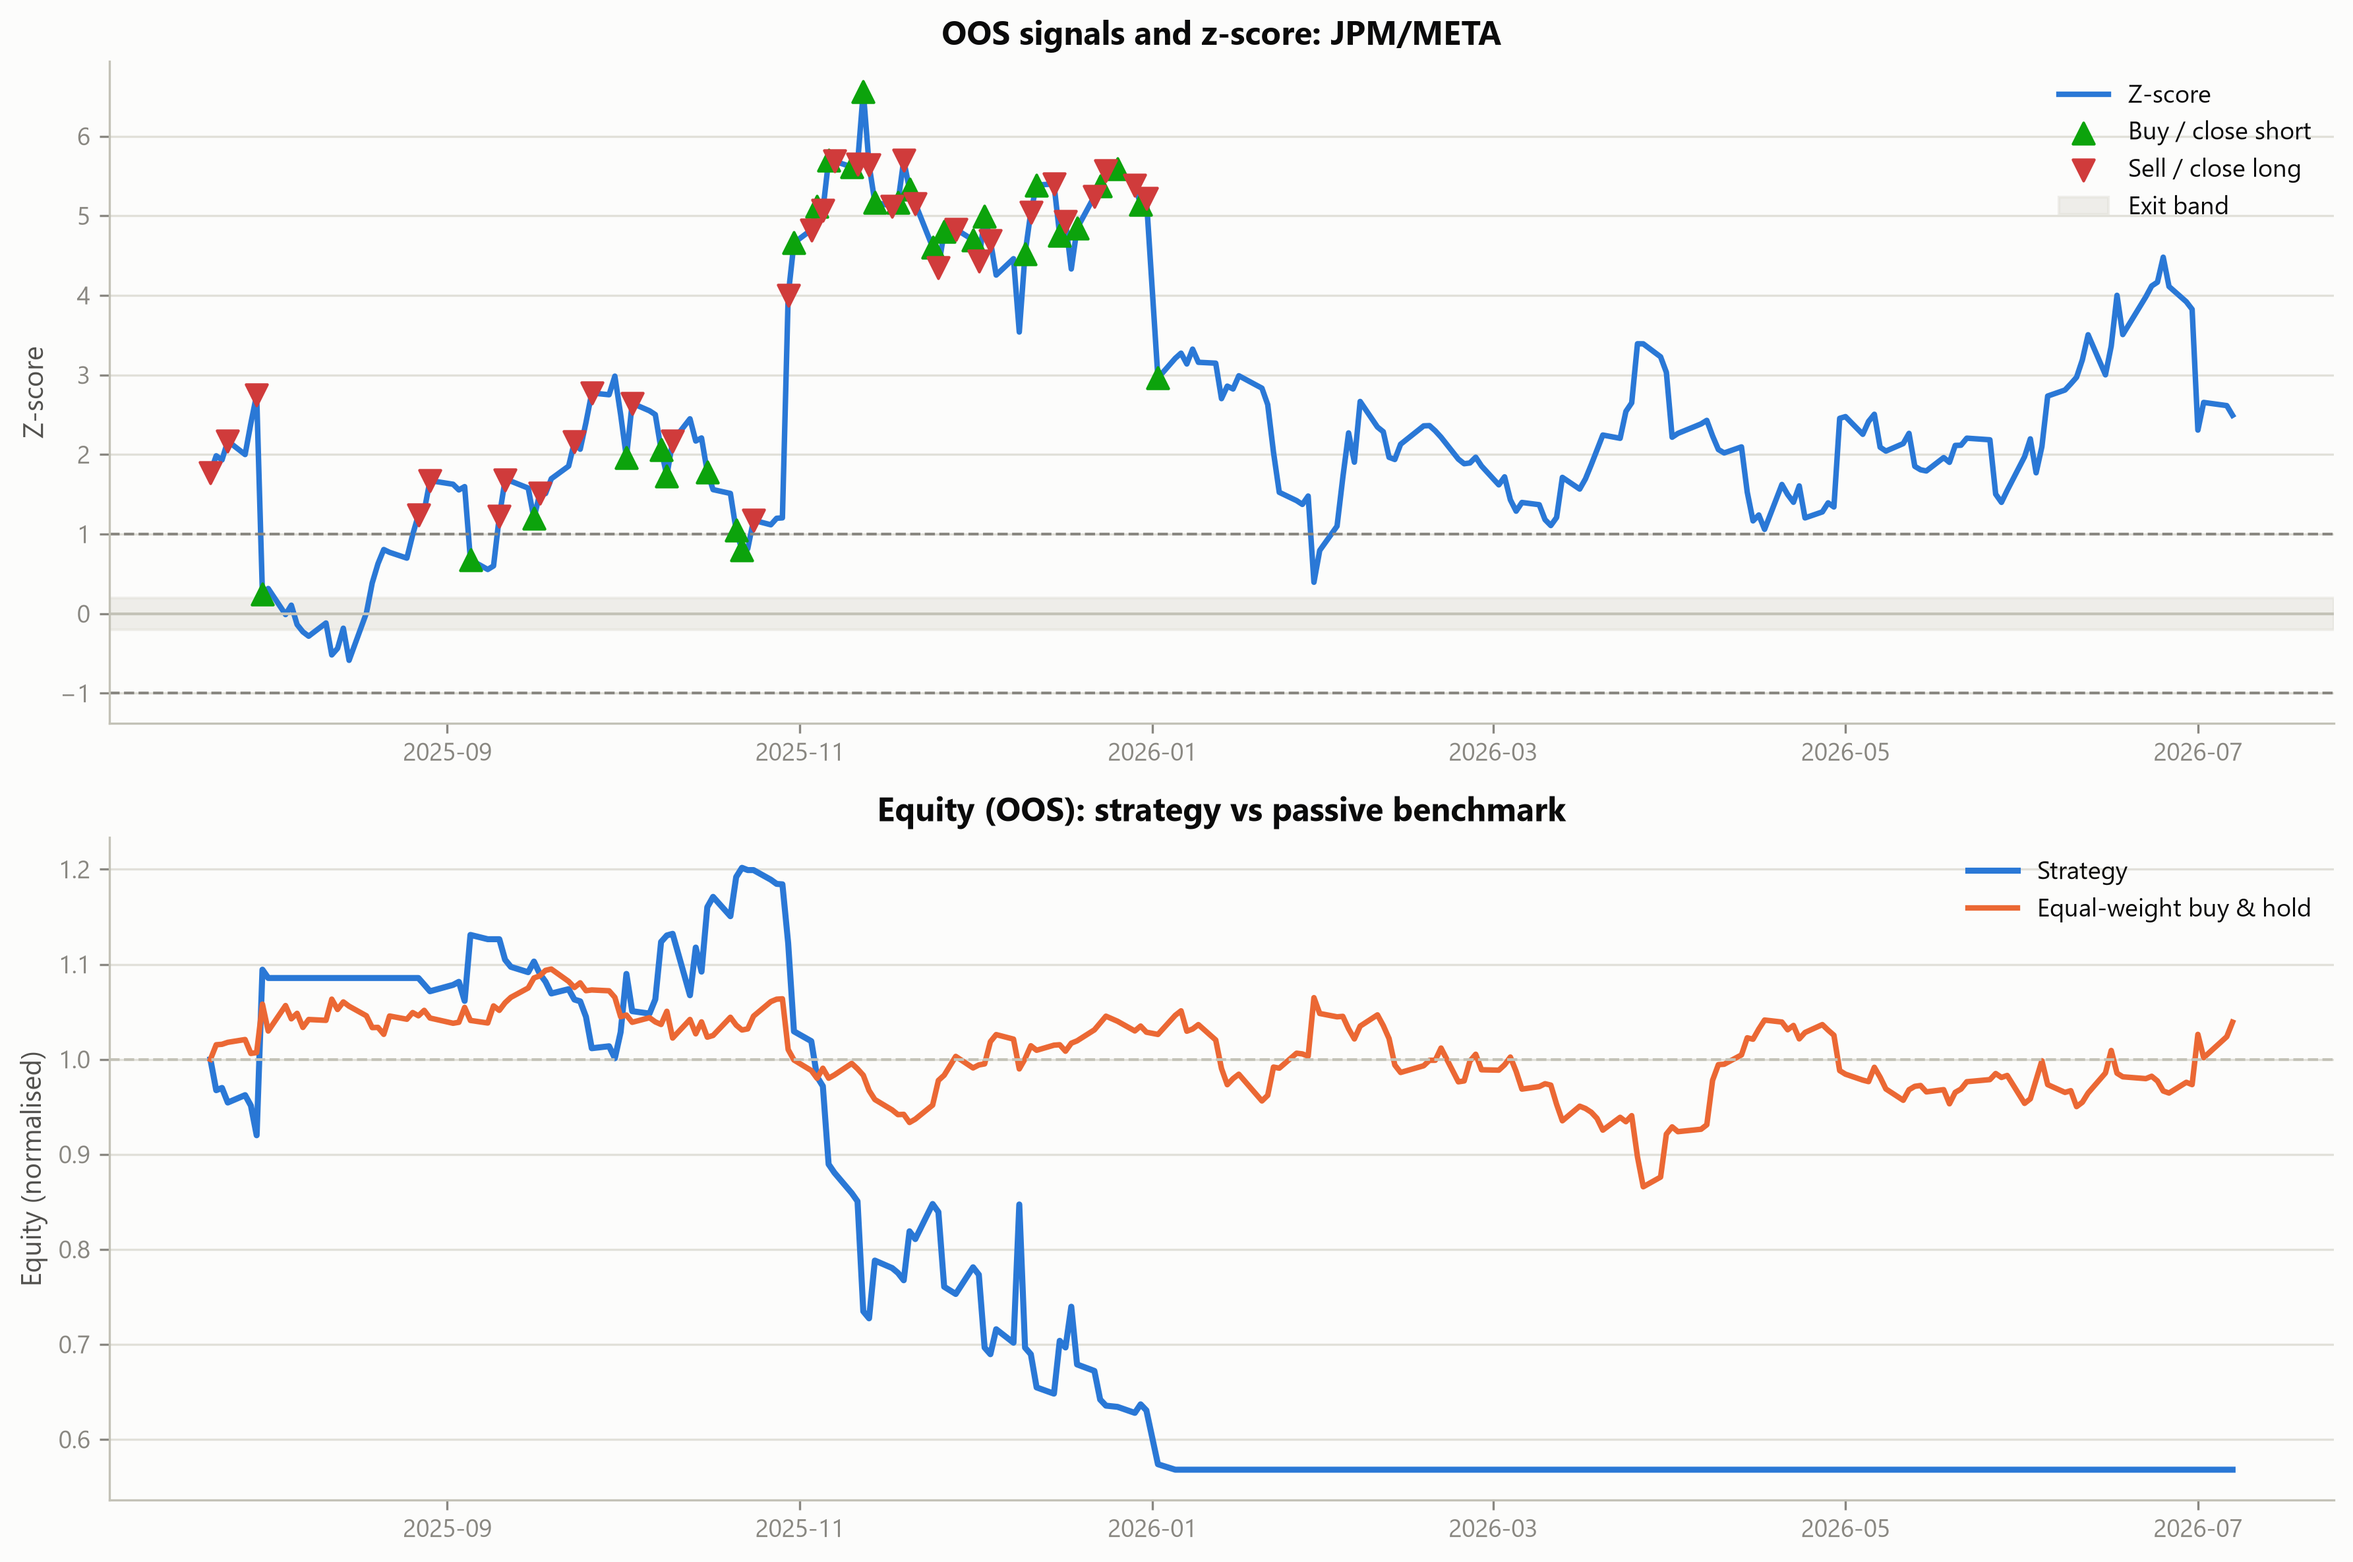
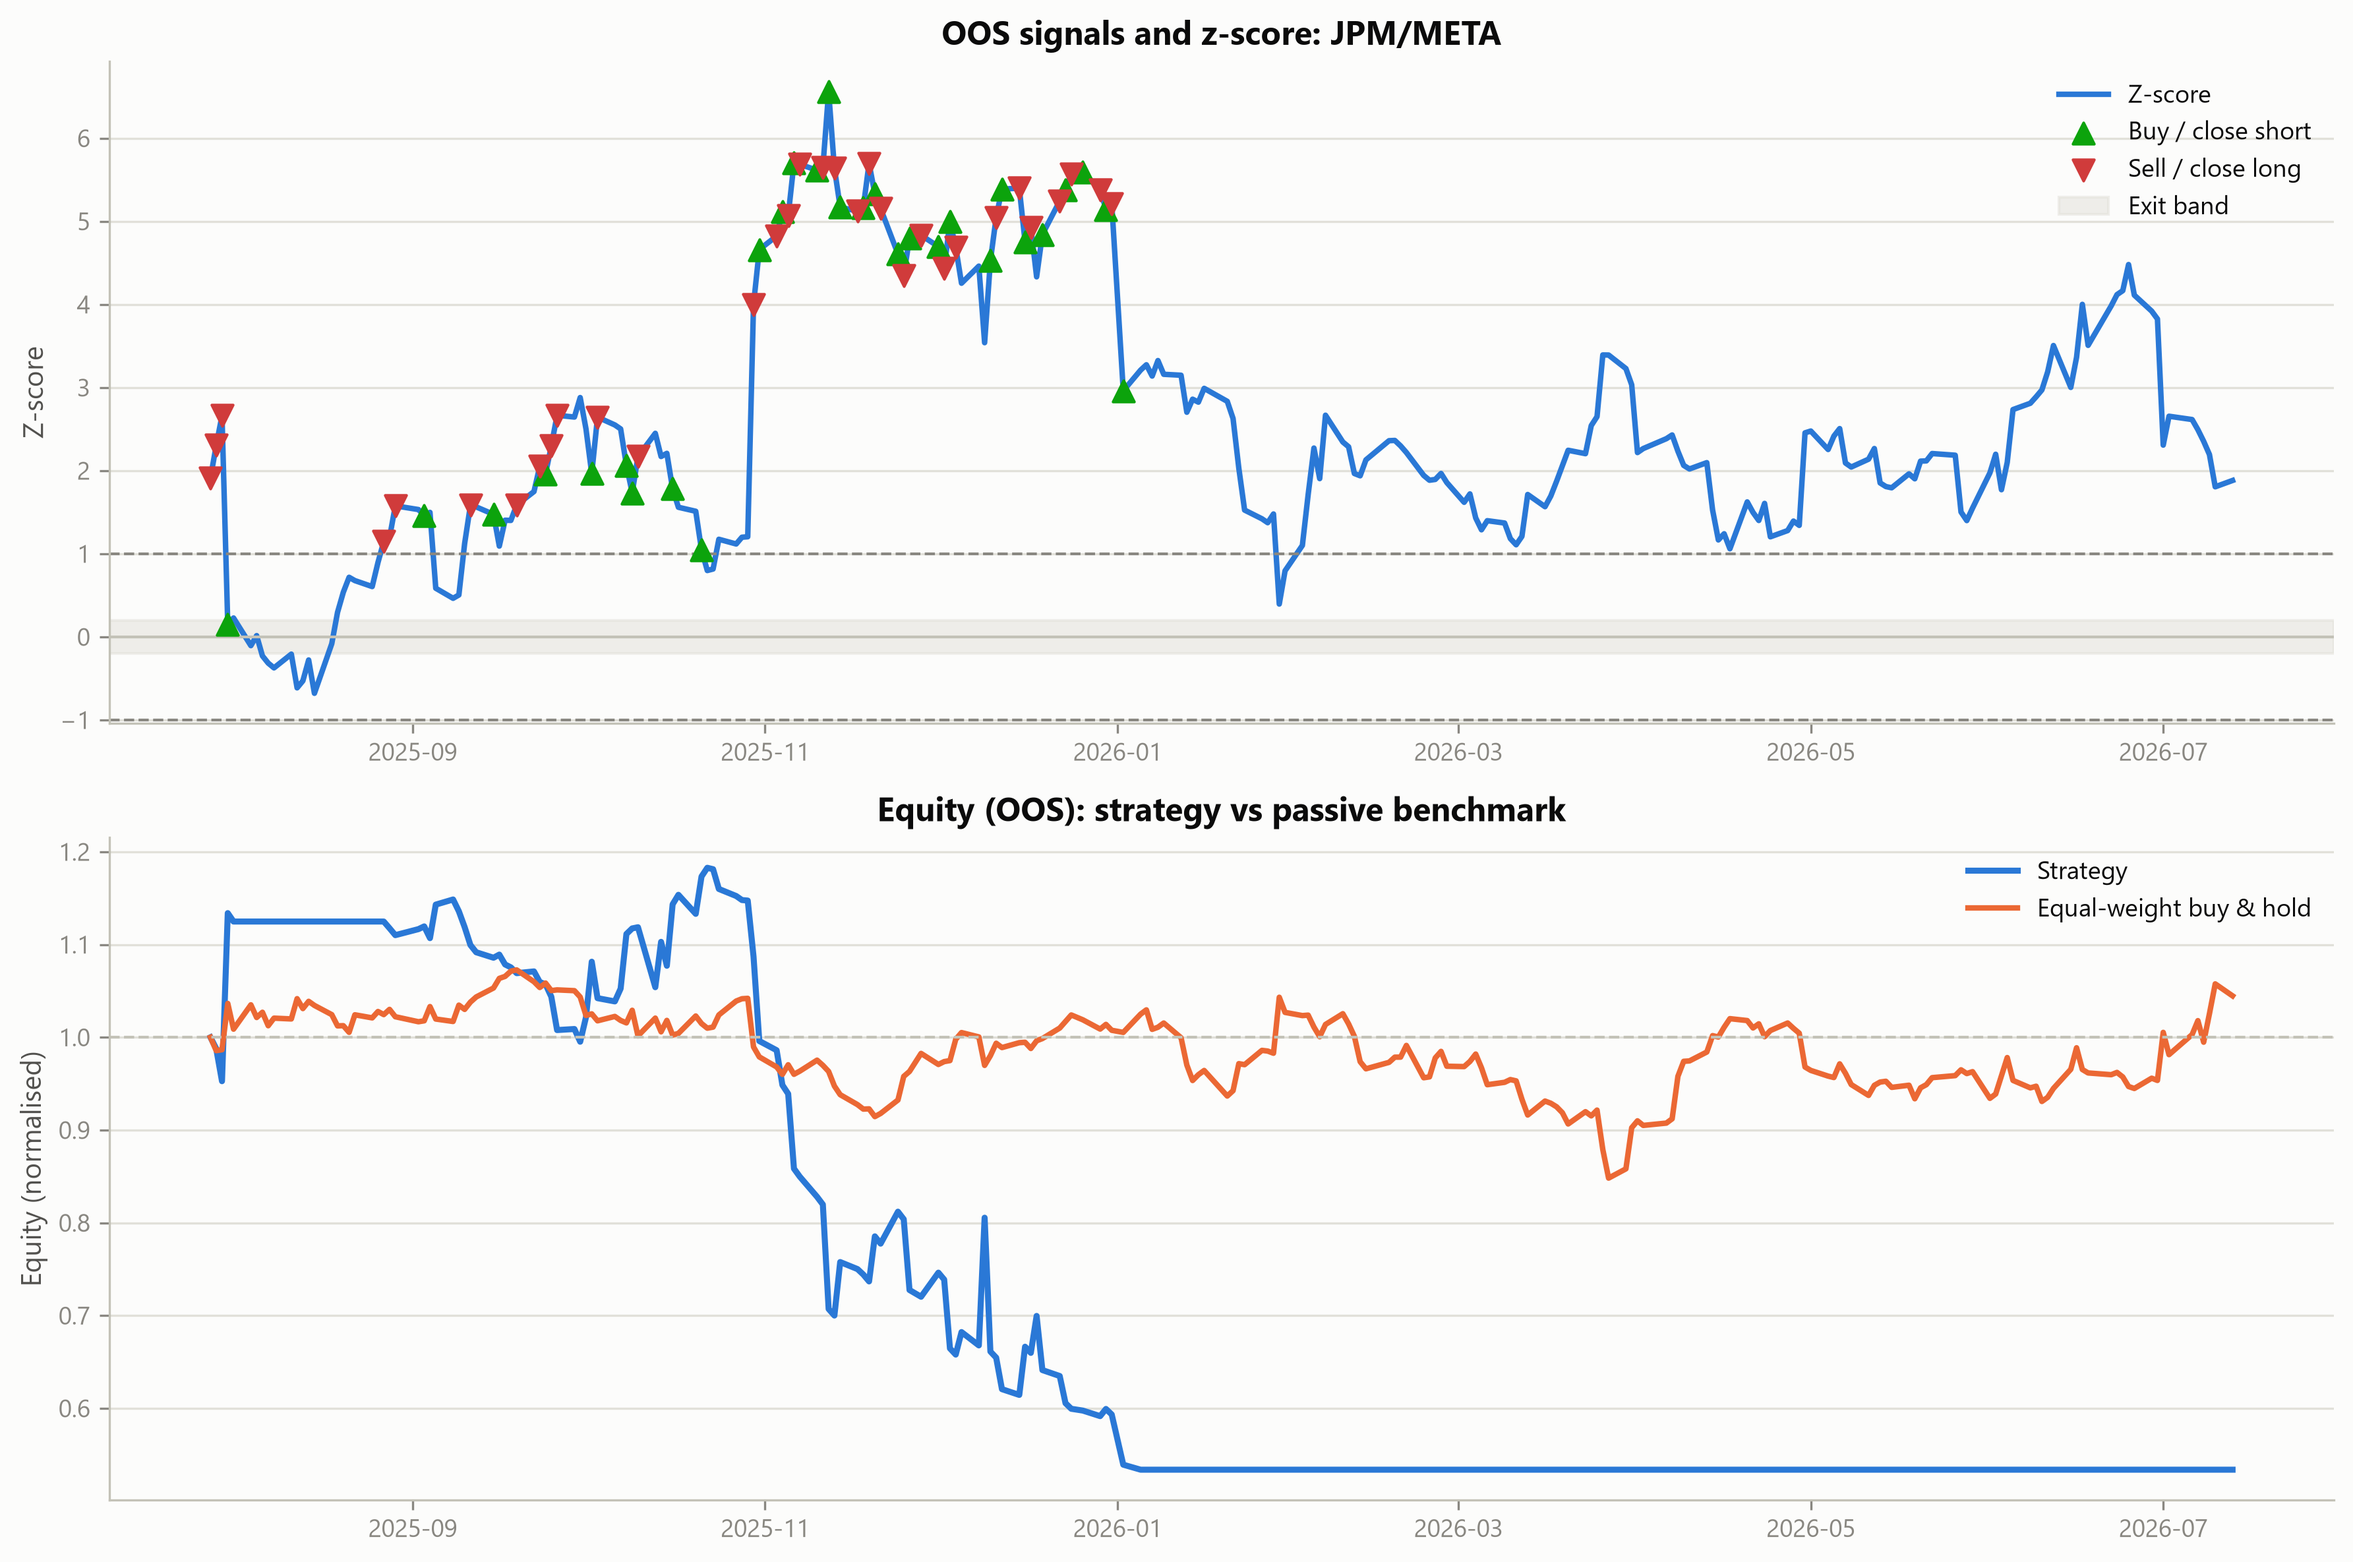
Fix dead exit_z: implement the hysteresis band the docs describe
The position logic closed trades as soon as |z| dipped below the ENTRY
threshold (abs_z < entry_z subsumed the exit_z clause), so the strategy
never rode positions through the (exit_z, entry_z) band and the charts'
shaded "Exit band" labelled behaviour the engine didn't have. Positions
now enter at |z| >= entry_z, hold through the band while z stays on the
entry side, and go flat only at |z| <= exit_z (or stop). A per-bar
regression test pins the band behaviour.

Results regenerated under the fixed engine (July 2025 split, data as of
2026-07-27): the strict p<0.01 screen still admits nothing; relaxing to
0.05 admits two pairs — one loses 46.6% OOS, the other returns +30.8%
with a worse Sharpe than holding its legs (P(beats bench) ~ 48%).
README worked example updated; stale GOOGL/NVDA charts removed (pair no
longer admitted).

Claude-Session: https://claude.ai/code/session_01PAN5aYJjfnYnsmyk93ineA

diff --git a/tests/test_pairs.py b/tests/test_pairs.py
@@ -114,6 +114,30 @@ def test_no_lookahead():
     assert (res1.df.loc[up_to, "position"].values == res2.df.loc[up_to, "position"].values).all()
 
 
+def test_exit_band_hysteresis():
+    """The strategy the docs describe: enter at |z| >= entry_z, ride the
+    position through the (exit_z, entry_z) band, flat only once |z| <= exit_z.
+    Pins the fix for the dead-exit_z bug (positions used to close as soon as
+    |z| dipped below the ENTRY threshold, making the charts' exit band a lie)."""
+    panel = make_cointegrated_panel(seed=13, n=600)
+    split = panel.index[300]
+    res = B.backtest_pair_one_year("A", "B", panel=panel,
+                                   split_date=split.date().isoformat(),
+                                   lookback_years=1, Graphs="N",
+                                   save_plots=False, ignore_gate=True)
+    z = res.df["z"].values
+    p = res.df["position"].values
+    held_in_band = 0
+    for t in range(len(z) - 1):
+        if (p[t] != 0 and 0.2 < abs(z[t]) < 1.0
+                and z[t] * p[t] < 0):        # still on the entry side
+            assert p[t + 1] == p[t], f"bar {t}: band exit at |z|={abs(z[t]):.2f}"
+            held_in_band += 1
+        if abs(z[t]) <= 0.2 and p[t] != 0:
+            assert p[t + 1] == 0, f"bar {t}: not flat at |z|={abs(z[t]):.2f}"
+    assert held_in_band > 0                   # the band was actually exercised
+
+
 def test_backtest_runs_and_reports_benchmark():
     panel = make_cointegrated_panel(seed=8, n=600)
     split = panel.index[300]

diff --git a/Backtesting.py b/Backtesting.py
@@ -430,17 +430,18 @@ def backtest_pair_one_year(
             desired_pos = 0
         else:
             abs_z = abs(z_t)
-            if abs_z <= exit_z or abs_z < entry_z:
-                target_units = 0
-            else:
+            if abs_z >= entry_z:
                 # 1 unit at entry threshold, then +1 per z_step beyond, capped
                 target_units = int(min(max_units, 1 + np.floor((abs_z - entry_z) / max(z_step, 1e-8))))
-
-            if z_t > entry_z:
-                desired_pos = -target_units
-            elif z_t < -entry_z:
-                desired_pos = +target_units
+                desired_pos = -target_units if z_t > 0 else +target_units
+            elif abs_z <= exit_z:
+                desired_pos = 0          # mean reversion played out: flat
+            elif pos != 0 and z_t * pos < 0:
+                desired_pos = pos        # hysteresis band: ride the open
+                                         # position until z reaches exit_z
             else:
+                # inside the band with no position (or z crossed to the other
+                # side of zero past exit_z): stay/go flat, don't open here
                 desired_pos = 0
 
             # Stop loss only closes existing positions; does not block new entries

diff --git a/README.md b/README.md
@@ -191,10 +191,13 @@ against its passive benchmark on the same axis.
 
 ### A worked example of why the strict screen matters
 
-On the current universe (July 2025 split), the strict default screen
-(Engle-Granger p<0.01) admits **nothing** — the closest pair sits at p≈0.016.
-Relaxing to `--stat-sig 0.05` admits three pairs, and out of sample two of
-them lose 43% and 68% respectively. The pairs that "almost" pass the test are
+On the current universe (July 2025 split, data as of 2026-07-27), the strict
+default screen (Engle-Granger p<0.01) admits **nothing** — the closest pair
+sits at p≈0.023. Relaxing to `--stat-sig 0.05` admits two pairs: out of
+sample one loses 46.6% (Sharpe −1.05 vs the passive benchmark's 0.31;
+bootstrap P(beats benchmark) ≈ 6%), and the other returns +30.8% but with a
+worse Sharpe than just holding its two legs (0.95 vs 1.31, P(beats
+benchmark) ≈ 48% — a coin flip). The pairs that "almost" pass the test are
 exactly the ones the test exists to keep you out of; a no-trade year is a
 result, not a failure.
 
